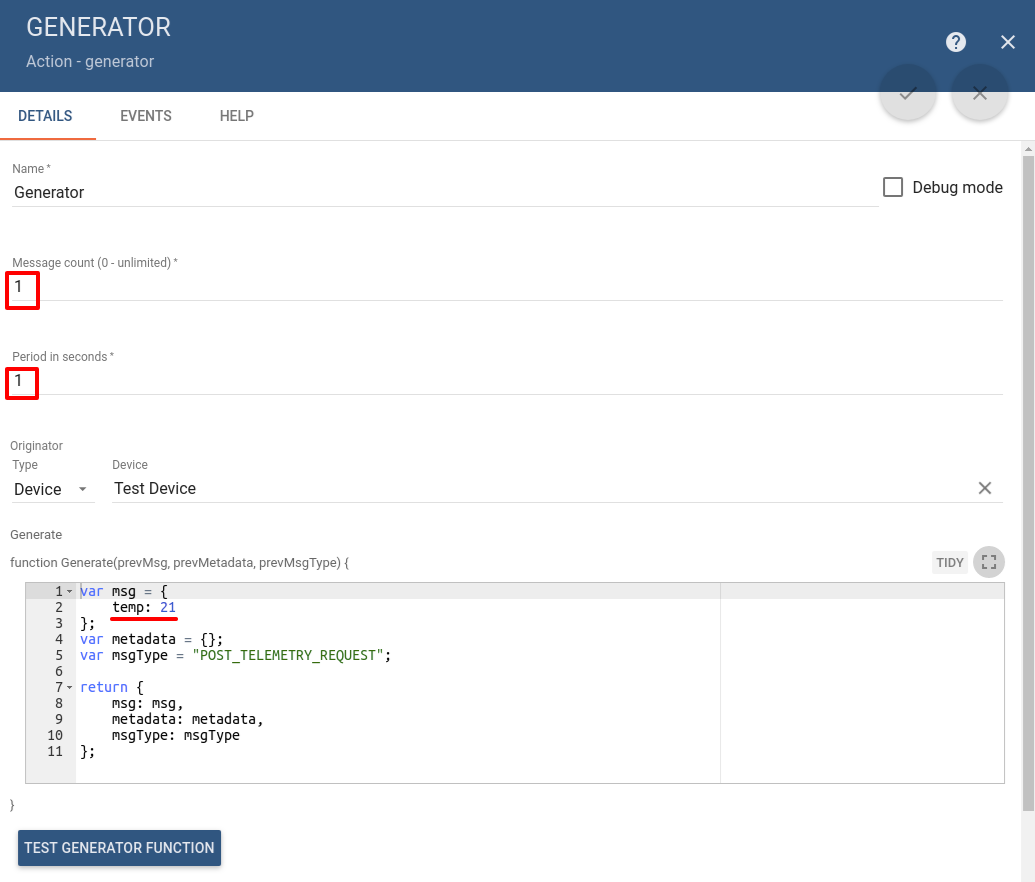
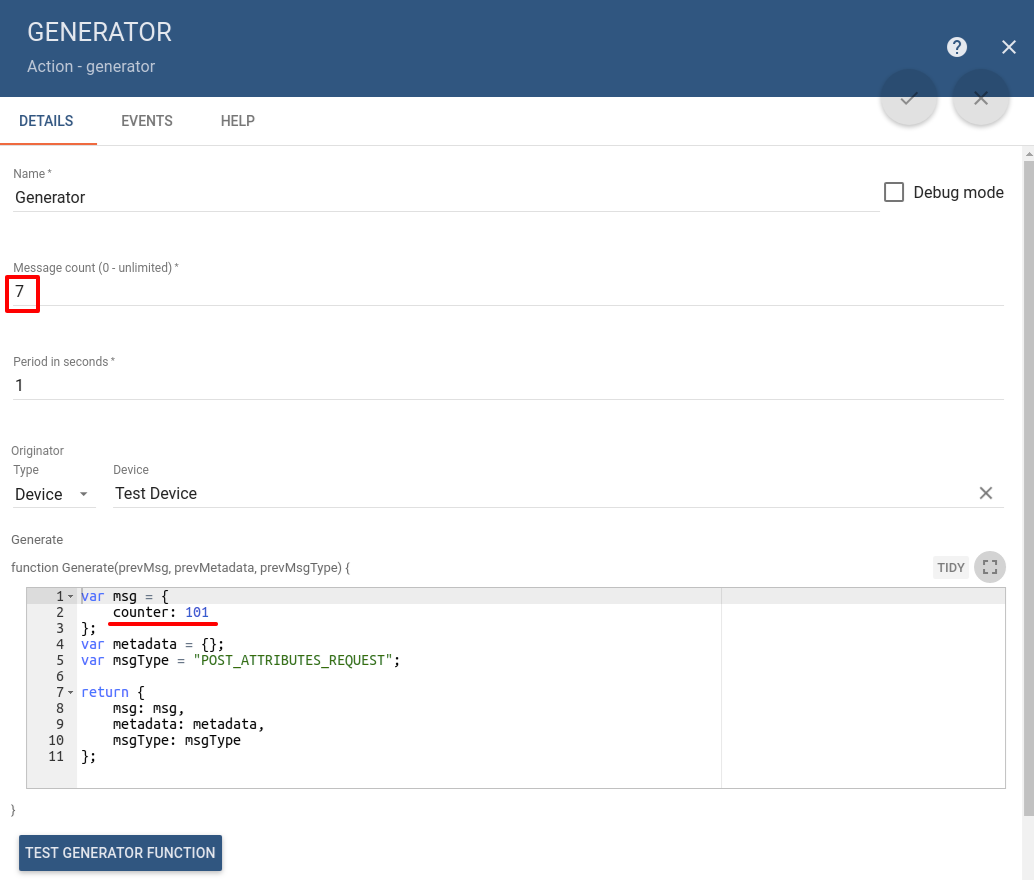
Develop/2.5 Synchronization tutorial updated (#332)
* synchronization and message reprocessing tutorials using queues

* synchronization tutorial - changed use case

* synchronization rule chain updated

diff --git a/docs/user-guide/rule-engine-2-5/tutorials/queues-for-synchronization.md b/docs/user-guide/rule-engine-2-5/tutorials/queues-for-synchronization.md
@@ -10,9 +10,12 @@ description: Using queues for synchronization
 
 ## Use case
 
-Let's assume your device is using DHT22 sensor to collect and push temperature readings in the room to ThingsBoard.
-In case the temperature exceeds some threshold we will simulate the air conditioning system to be enabled.
-Otherwise, it will be disabled.
+Let's assume you need to implement the "counter" logic using ThingsBoard Rule Engine.
+Basically, message processing is executed asynchronously inside the Rule Nodes. Due to this fact, in most cases, the logic "get present counter value -> add new counter value -> save counter value" 
+leads to the incorrect final result (unlike your expectations) due to the race condition issue. 
+It is a well-known problem for all who dealt with multi-threading programming.
+You can refer to this [article](https://opensourceforgeeks.blogspot.com/2014/01/race-condition-synchronization-atomic.html) which nicely describes the problem and the existed solutions.
+Starting the ThingsBoard v2.5 this processing issue could be solved using special configurable queues.
 
 In this tutorial, we will configure ThingsBoard Rule Engine to use queue with sequential by originator message submit strategy.
 Although this scenario is fictional, you will learn how to work with the queue to allow processing messages in sequential order
@@ -31,8 +34,8 @@ In addition, you need to have at least one device provisioned in your environmen
 
 ![image](/docs/user-guide/rule-engine-2-5/tutorials/resources/sync_rule_chain.png)
 
-We will add two generator nodes that will generate a single message each. First generator will produce a message with the temperature value of 21.
-Second - with the value of 19 in one second later.
+We will add two generator nodes that will generate seven messages each. First generator will produce a message with the counter value of 101.
+Second - with the value of 10. So the result should be 777.
 
 ![image](/docs/user-guide/rule-engine-2-5/tutorials/resources/generator1.png)
 ![image](/docs/user-guide/rule-engine-2-5/tutorials/resources/generator2.png)
@@ -43,50 +46,26 @@ the subsequent message will start being processed when the preceding message is 
 
 ![image](/docs/user-guide/rule-engine-2-5/tutorials/resources/checkpoint.png)
 
-We will filter the messages based on the temperature value.
-![image](/docs/user-guide/rule-engine-2-5/tutorials/resources/filter_by_temperature.png)
+We will get the present "counter" value using **"Originator Attributes"** node.
+![image](/docs/user-guide/rule-engine-2-5/tutorials/resources/sync_originator_attributes.png)
 
-The first message will go through the **'True'** chain. The new attribute **'state'** will be created with the value **'on'**.
-That would mean the air conditioning system is enabled. We have simulated the 7 seconds delay to show that the second message will be on hold until the first message is processed (acknowledged).
+The calculations will be done using **"Counter Script"** node. 
 
-![image](/docs/user-guide/rule-engine-2-5/tutorials/resources/on_state_script.png)
+![image](/docs/user-guide/rule-engine-2-5/tutorials/resources/sync_counter_script.png)
 
-The two last steps are saving the attribute and displaying the Success Log.
-After the log message is displayed, the first message is considered as processed (acknowledged) since there is no more logic coming afterward.
-
-![image](/docs/user-guide/rule-engine-2-5/tutorials/resources/save_and_log.png)
-
-The second message is started being processed. It will go through the **"False"** chain of the **"Filter By Temperature"** node.
-The **"Originator Attributes"** node is used for fetching the **'state'** attribute.
-In case it is absent, the message will go through **"Failure"** chain. This is done to illustrate that in case the second message is started being processed before the first is finished, 
-the logic fails and the attribute is not updated.
-
-![image](/docs/user-guide/rule-engine-2-5/tutorials/resources/originator_attributes.png)
-
-The **"Filter Script"** node is used to filter the message based on the air conditioning system state. In case it is enabled (the value is **'on'**), we change the state to **'off'** and save attribute.
-
-![image](/docs/user-guide/rule-engine-2-5/tutorials/resources/filter_by_state.png)
-![image](/docs/user-guide/rule-engine-2-5/tutorials/resources/off_state.png)
-
-Otherwise, we do nothing. The same save attributes and log nodes are used to finish the processing.
-
-![image](/docs/user-guide/rule-engine-2-5/tutorials/resources/save_and_log.png)
+The last step will be to save the new counter value using **"Save Attributes"** node.
 
 ## Step 2: Validation the Rule Chain logic
 
-Let's check that our logic is correct by saving the Rule Chain. The generators will automatically produce two messages:
+Let's check that our logic is correct by saving the Rule Chain. The generators will automatically produce 14 messages:
 
-**"Checkpoint"** node receives two messages:
+![image](/docs/user-guide/rule-engine-2-5/tutorials/resources/sync_events.png)
 
-![image](/docs/user-guide/rule-engine-2-5/tutorials/resources/checkpoint_events.png)
+The final counter value that is persisted for a device is:
 
-We can see that the next node, **"Filter By Temperature"**, receives the second message after 7 seconds the first came. That means that our logic works correctly.
+![image](/docs/user-guide/rule-engine-2-5/tutorials/resources/sync_result.png)
 
-![image](/docs/user-guide/rule-engine-2-5/tutorials/resources/checkpoint_events.png)
-
-And the **"Originator Attributes"** node processed the second message successfully.
-
-![image](/docs/user-guide/rule-engine-2-5/tutorials/resources/originator_events.png)
+That means that our logic works correctly.
 
 ## TL;DR
 
